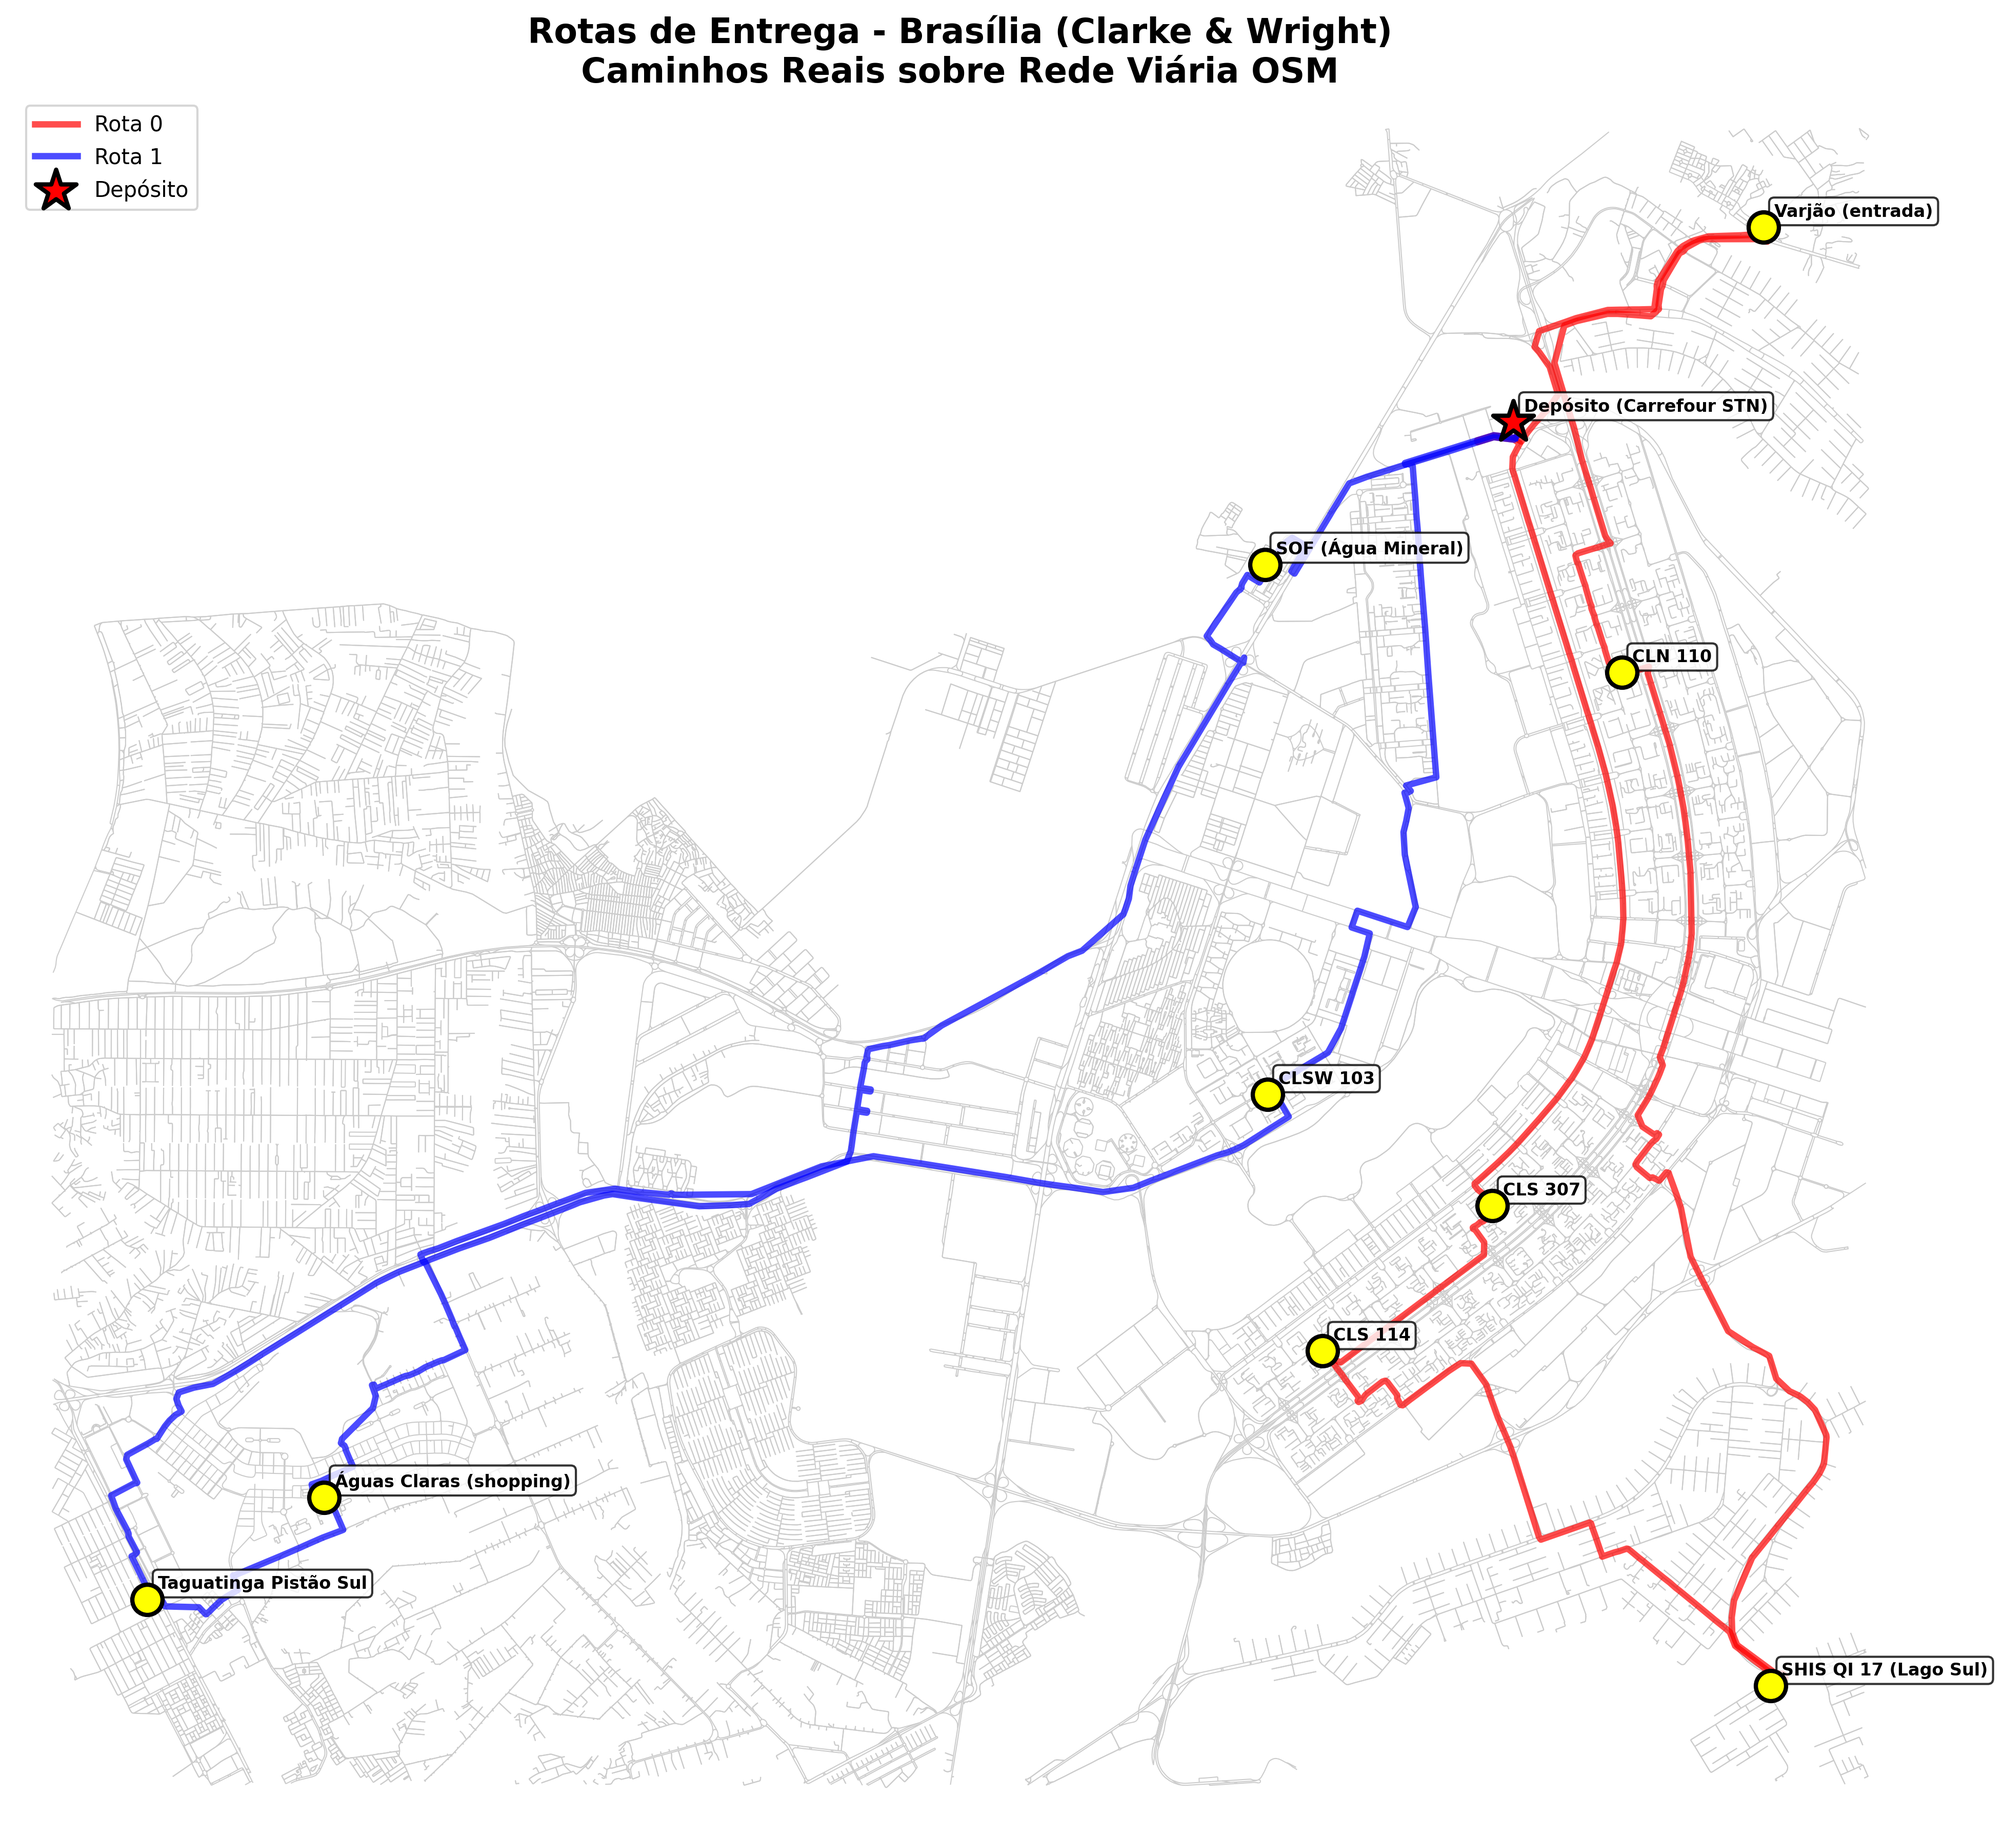
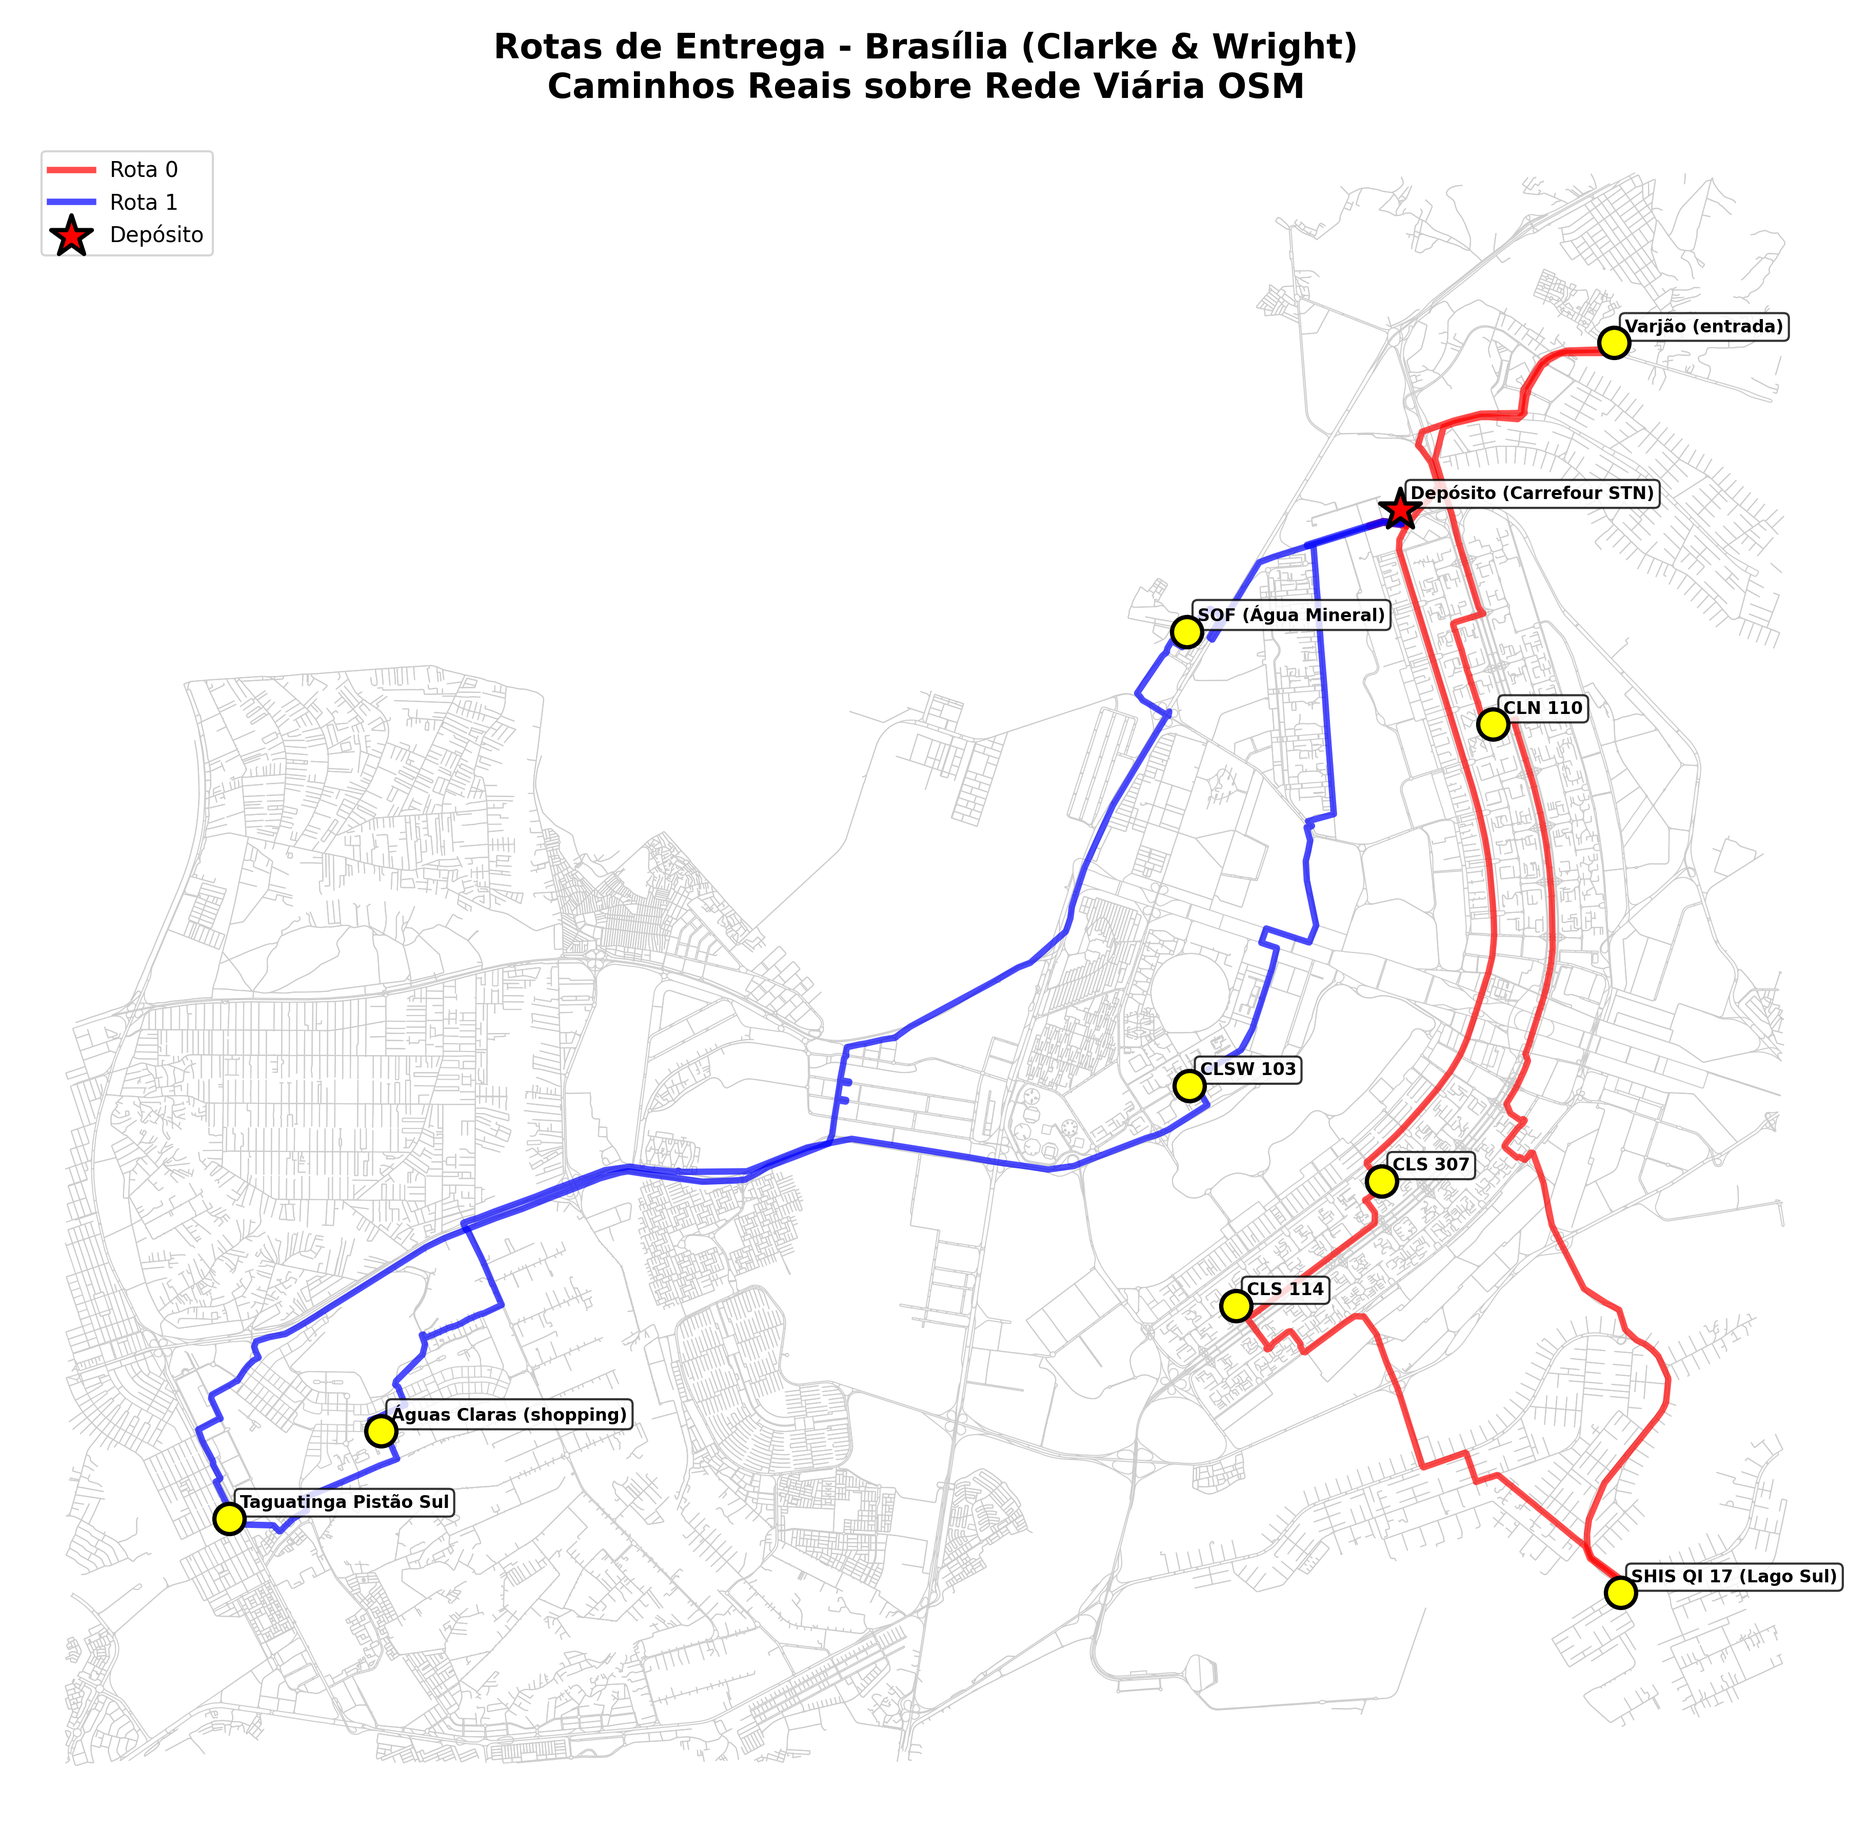
fix rotas_brasilia.png background color

diff --git a/run.py b/run.py
@@ -732,15 +732,21 @@ print(f"Subgrafo: {len(G_bbox.nodes)} nós, {len(G_bbox.edges)} arestas")
 if not isinstance(G_bbox, (nx.MultiGraph, nx.MultiDiGraph)):
     G_bbox = nx.MultiDiGraph(G_bbox)
 
-fig, ax = ox.plot_graph(
+# Create figure with white background BEFORE osmnx plots on it
+fig, ax = plt.subplots(figsize=(16, 12))
+fig.patch.set_facecolor("white")
+ax.set_facecolor("white")
+
+# Now use ox.plot_graph to draw on our pre-created axes
+ox.plot_graph(
     G_bbox,
+    ax=ax,
     node_size=0,
     edge_color="#CCCCCC",
     edge_linewidth=0.5,
     bgcolor="white",
     show=False,
     close=False,
-    figsize=(16, 12),
 )
 
 # Cores para as rotas
@@ -808,11 +814,30 @@ ax.set_title(
     "Rotas de Entrega - Brasília (Clarke & Wright)\nCaminhos Reais sobre Rede Viária OSM",
     fontsize=16,
     fontweight="bold",
+    pad=20,
 )
 ax.legend(loc="upper left", fontsize=10)
 
-plt.tight_layout()
-plt.savefig("output/rotas_brasilia.png", dpi=300, bbox_inches="tight")
+# Force white background for figure and axes to avoid transparency when saving
+# OSMnx may set transparent properties, so we need to override them explicitly
+fig.patch.set_facecolor("white")
+ax.set_facecolor("white")
+# Also set the axes patch to white
+ax.patch.set_facecolor("white")
+
+plt.tight_layout(pad=2.0)
+# Pass transparent=False explicitly to prevent any transparency
+# Note: bbox_inches='tight' can sometimes cause transparency issues
+plt.savefig(
+    "output/rotas_brasilia.png",
+    dpi=300,
+    bbox_inches="tight",
+    pad_inches=0.2,
+    facecolor="white",
+    edgecolor="white",
+    transparent=False,
+    format="png",
+)
 print("✓ Imagem salva: rotas_brasilia.png")
 plt.close()
 
